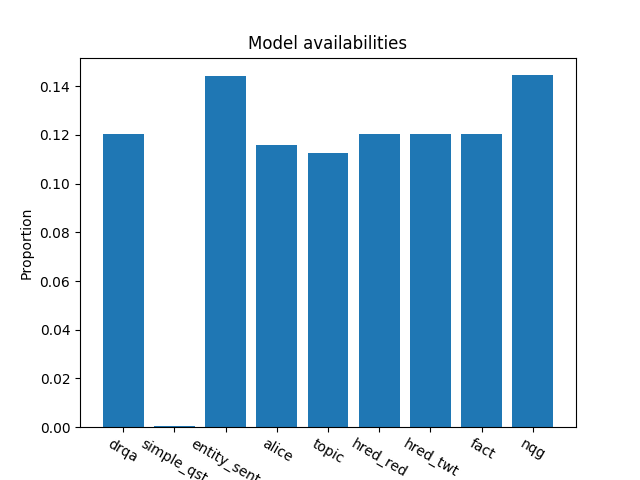
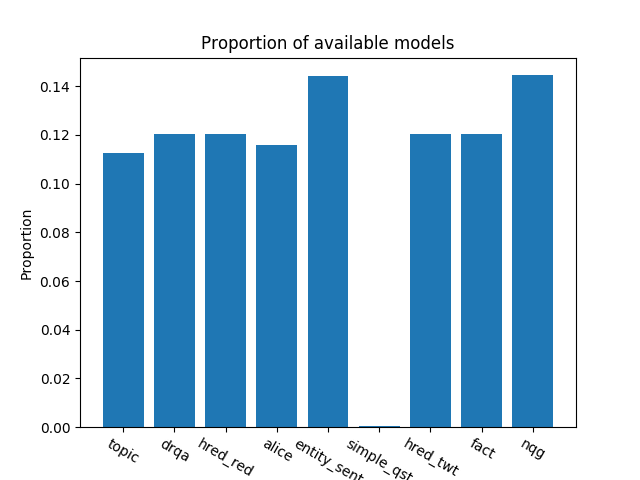
updated amt_data_stats script to capture context length, number of candidates, missing candidates at various times

diff --git a/ranker/data/amt_data_stats.py b/ranker/data/amt_data_stats.py
@@ -26,7 +26,21 @@ def get_model_usage(convos):
     :param convos: list of accepted conversation
     :return: the mapping
     """
-    data = {}  # map from model_name to number of time available & number of time used
+
+    # map from model_name to number of time available & number of time used & number of time not available
+    data = {
+        'hred_twt': {'unavailable': 0., 'available': 0., 'used': 0.},
+        'hred_red': {'unavailable': 0., 'available': 0., 'used': 0.},
+        'nqg': {'unavailable': 0., 'available': 0., 'used': 0.},
+
+        'drqa': {'unavailable': 0., 'available': 0., 'used': 0.},
+        'topic': {'unavailable': 0., 'available': 0., 'used': 0.},
+        'fact': {'unavailable': 0., 'available': 0., 'used': 0.},
+
+        'entity_sent': {'unavailable': 0., 'available': 0., 'used': 0.},
+        'simple_qst': {'unavailable': 0., 'available': 0., 'used': 0.},
+        'alice': {'unavailable': 0., 'available': 0., 'used': 0.}
+    }
     n_ex = 0
 
     for conv_idx, conv in enumerate(convos):
@@ -42,13 +56,28 @@ def get_model_usage(convos):
             if choice_idx == '/end':
                 break
 
+            # check if each model was a candidate response
+            all_models = {'hred_twt': False, 'hred_red': False, 'nqg': False,
+                          'drqa': False, 'topic': False, 'fact': False,
+                          'entity_sent': False, 'simple_qst': False, 'alice': False}
+
             # loop through each candidate option
             for option_idx, option in turn['options'].items():
+                '''
+                "text" : <str>,
+                "chat_unique_id" : <str>,
+                "vote" : <str of either 1 or 0>,
+                "score" : <str of float between 1 and 5>,
+                "model_name" : <str>,
+                "context": <list of strings>,
+                "chat_id" : <str>,
+				"conf" : <str of float between 0 and 1>
+                '''
                 # don't consider the /end option
                 if option_idx == '/end':
                     continue
 
-                # reset some model names
+                # reset some model names (all except drqa & nqg)
                 model_name = option['model_name']
                 if model_name == "candidate_question":
                     model_name = "entity_sent"
@@ -65,15 +94,11 @@ def get_model_usage(convos):
                 elif model_name == "alicebot":
                     model_name = "alice"
 
-                # store model name
-                if model_name not in data:
-                    data[model_name] = {
-                        'available': 0.,
-                        'used': 0.
-                    }
-
                 # always add one when available
                 data[model_name]['available'] += 1
+
+                # flag as available
+                all_models[model_name] = True
 
                 # if chosen, add one to 'used' count
                 if choice_idx == option_idx:
@@ -83,9 +108,143 @@ def get_model_usage(convos):
                 n_ex += 1
 
             # end of options
+
+            # count models that are not available
+            for model_name in all_models:
+                if not all_models[model_name]:
+                    data[model_name]['unavailable'] += 1
+
+
         # end of conversation
     # end of accepted HITs
     return data, n_ex
+
+
+def get_proportions(convos):
+    candidate_counts = [0.0, 0.0, 0.0, 0.0, 0.0, 0.0, 0.0, 0.0, 0.0]
+    total_counts = 0.0
+
+    context_lengths = [0.0, 0.0, 0.0, 0.0, 0.0,
+                       0.0, 0.0, 0.0, 0.0, 0.0,
+                       0.0, 0.0, 0.0, 0.0, 0.0,
+                       0.0, 0.0, 0.0, 0.0, 0.0]
+    total_lengths = 0.0
+    long_contexts = 0.0
+
+    total = 0.0
+
+    missing_at_7 = {  # ignoring 'dumb_qa'
+        'hred-twitter': 0., 'hred-reddit': 0., 'nqg': 0.,
+        'drqa': 0., 'topic_model': 0., 'fact_gen': 0.,
+        'candidate_question': 0., 'alicebot': 0.,
+    }
+
+    for conv_idx, conv in enumerate(convos):
+        # loop through each turn for this conversation
+        for turn in conv['chat_state']['turns']:
+            '''
+            "choice" : <str idx of chosen candidate>,
+			"options" : { <str idx> : <option>, ... }
+            '''
+
+            choice_idx = turn['choice']  # choice index
+            # skip turn if invalid choice
+            if choice_idx == '-1' or choice_idx == -1:
+                continue
+
+            # if chose to finish, this is the last turn so we can break
+            #if choice_idx == '/end':
+            #    break
+
+            c_len = 0  # current guess of the context length
+            got_end_option = False  # to know when to ignore a candidate when measuring length
+
+            # loop through each candidate option
+            for option_idx, option in turn['options'].items():
+                '''
+                "text" : <str>,
+                "chat_unique_id" : <str>,
+                "vote" : <str of either 1 or 0>,
+                "score" : <str of float between 1 and 5>,
+                "model_name" : <str>,
+                "context": <list of strings>,
+                "chat_id" : <str>,
+                "conf" : <str of float between 0 and 1>
+                '''
+                # don't consider the /end option
+                if option_idx == '/end':
+                    got_end_option = True
+                    continue
+
+                # update the context length
+                if c_len == 0:
+                    if len(turn['options']) > 2:
+                        model_name = option['model_name']
+                        c_len = len(option['context'])
+
+                        if model_name == "hred-reddit":
+                            c_len -= 1  # remove 1 to context length since the context also considers the candidate we return
+                        elif model_name == "hred-twitter":
+                            c_len -= 1  # remove 1 to context length since the context also considers the candidate we return
+                        elif model_name == "nqg":
+                            c_len = len(option['context'])
+
+                        elif model_name == "drqa":
+                            c_len -= 1  # remove 1 to context length since the context also considers the candidate we return
+                        elif model_name == "topic_model":
+                            c_len -= 1  # remove 1 to context length since the context also considers the candidate we return
+                        elif model_name == "fact_gen":
+                            c_len -= 1  # remove 1 to context length since the context also considers the candidate we return
+
+                        elif model_name == "candidate_question":
+                            c_len -= 1  # remove 1 to context length since the context also considers the candidate we return
+                        elif model_name == "alicebot":
+                            c_len -= 1  # remove 1 to context length since the context also considers the candidate we return
+                    else:
+                        c_len = 1
+
+            if got_end_option:
+                # -1 number of candidates because we don't consider the 'end' option
+                candidate_counts[len(turn['options']) - 2] += 1
+                total_counts += (len(turn['options']) - 1)
+            else:
+                candidate_counts[len(turn['options']) - 1] += 1
+                total_counts += len(turn['options'])
+
+                # DEBUG
+                # print model names that are missing (except 'dumb_qa') when only 7 candidate responses are available
+                if len(turn['options']) == 7:
+                #if len(turn['options']) == 6:
+                #if len(turn['options']) == 5:
+                    all_names = set([
+                        'hred-twitter', 'hred-reddit', 'nqg',
+                        'drqa', 'topic_model', 'fact_gen',
+                        'candidate_question', 'alicebot'])
+                    names = set([op['model_name'] for op in turn['options'].values()])
+                    missing = list(all_names - names)
+                    assert len(missing) == 1
+                    #if missing[0] == 'alicebot':
+                    #    print "alice is missing... context below:"
+                    #    print turn['options']['1']['context'][-3]
+                    #    print turn['options']['1']['context'][-2]
+                    #    print turn['options']['1']['context'][-1]
+                    #    print ""
+                    #elif missing[0] == 'topic_model':
+                    #    print turn['options']['1']['context']
+                    missing_at_7[missing[0]] += 1
+                    #missing_at_7[missing[1]] += 1
+                    #missing_at_7[missing[2]] += 1
+
+            try:
+                context_lengths[c_len-1] += 1
+            except IndexError:
+                long_contexts += 1
+            total_lengths += c_len
+
+            total += 1
+
+    return (candidate_counts, total_counts), (context_lengths, long_contexts, total_lengths), total, missing_at_7
+
 
 
 def main():
@@ -98,7 +257,9 @@ def main():
     results = list(db.dialogs.find({'review': 'accepted'}))
     print "got %d conversations." % len(results)
 
+    ###
     # get quality of all conversations
+    ###
     qualities = get_convo_qualities(results)
     n_conv = np.sum(qualities)
     assert n_conv == len(results)
@@ -119,10 +280,12 @@ def main():
     plt.savefig("amt_data_qualities.png")
     plt.close()
 
+    ###
     # get model availabilities
+    ###
     model_usage, n_ex = get_model_usage(results)
     for model_name, usage in model_usage.items():
-        print " - %s\tavailability: %d / %d = %f" % (model_name[:], usage['available'], n_ex, usage['available'] / n_ex)
+        print " - %s\tavailability: %d / %d = %f" % (model_name, usage['available'], n_ex, usage['available'] / n_ex)
     print ""
 
     # plot availabilities
@@ -130,10 +293,21 @@ def main():
     availabilities = [usage['available'] / n_ex for usage in model_usage.values()]
     plt.bar(range(len(availabilities)), availabilities, tick_label=model_names)
     plt.xticks(fontsize=10, rotation=-30)
-    plt.title("Model availabilities")
+    plt.title("Proportion of available models")
     plt.xlabel("Model")
     plt.ylabel("Proportion")
     plt.savefig("amt_data_availabilities.png")
+    plt.close()
+
+    # plot UNavailabilities
+    model_names = model_usage.keys()
+    unavailabilities = [usage['unavailable'] / n_ex for usage in model_usage.values()]
+    plt.bar(range(len(unavailabilities)), unavailabilities, tick_label=model_names)
+    plt.xticks(fontsize=10, rotation=-30)
+    plt.title("Proportion of unavailable models")
+    plt.xlabel("Model")
+    plt.ylabel("Proportion")
+    plt.savefig("amt_data_unavailabilities.png")
     plt.close()
 
     # get model usage
@@ -147,11 +321,77 @@ def main():
     utilities = [usage['used'] / usage['available'] for usage in model_usage.values()]
     plt.bar(range(len(utilities)), utilities, tick_label=model_names)
     plt.xticks(fontsize=10, rotation=-30)
-    plt.title("Model utilities")
+    plt.title("Proportion of selected models when available")
     plt.xlabel("Model")
     plt.ylabel("Proportion")
     plt.savefig("amt_data_utilities.png")
     plt.close()
+
+    ###
+    # Get stats: number of candidates, context lengths, etc...
+    # Do it ONCE for all model: these are stats of the test set itself
+    ###
+    print "\nCounting number of candidate responses & context lengths..."
+
+    (candidate_counts, total_counts), (context_lengths, long_contexts, total_lengths), total, missing_at_7 = get_proportions(results)
+    print "missing models when only 7 candidates are available:"
+    total_miss = np.sum(missing_at_7.values())
+    for model_name, miss in missing_at_7.items():
+        print " - %s\tmiss: %d / %d = %f" % (model_name, miss, total_miss, miss / total_miss)
+    print ""
+    # plot missing models
+    model_names = missing_at_7.keys()
+    misses = np.array(missing_at_7.values()) / total_miss
+    plt.bar(range(len(misses)), misses, tick_label=model_names)
+    plt.xticks(fontsize=10, rotation=-30)
+    plt.title("Proportion of models not available when we only have 7 candidates")
+    plt.xlabel("Model")
+    plt.ylabel("Proportion")
+    plt.savefig("amt_data_miss@7.png")
+    plt.close()
+
+
+    print "Number of candidate responses:"
+    for length, count in enumerate(candidate_counts):
+        print "- #of turns with %d candidates available: %d / %d = %g" % (
+            length + 1, count, total, count / total
+        )
+    # - measure #of_candidate avg
+    print "Average number of candidates: %g" % (total_counts / total)
+    # - plot proportion of #of possible candidate: #of2, #of3, ..., #of9
+    candidate_counts = np.array(candidate_counts) / total
+    plt.bar(range(len(candidate_counts)), candidate_counts, tick_label=range(1, len(candidate_counts)+1))
+    plt.title("Number of candidate responses available")
+    plt.xlabel("#of candidates")
+    plt.ylabel("Proportion")
+    plt.savefig("./amt_data_candidates.png")
+    plt.close()
+
+    print "\nLength of context:"
+    for length, count in enumerate(context_lengths):
+        print "- #of examples with %d messages in context: %d / %d = %g" % (
+            length + 1, count, total, count / total
+        )
+    print "- #of examples with more messages in context: %d / %d = %g" % (
+        long_contexts, total, long_contexts / total
+    )
+    # - measure context length avg
+    print "Average context size: %g" % (total_lengths / total)
+    # - plot proportion of context length: #of2, #of3, ..., #of10
+    context_lengths.append(long_contexts)
+    context_lengths = np.array(context_lengths) / total
+    plt.bar(
+        range(len(context_lengths)),
+        context_lengths,
+        tick_label=range(1, len(context_lengths))+['>']
+    )
+    plt.title("Context lengths")
+    plt.xlabel("#of messages")
+    plt.ylabel("Proportion")
+    plt.savefig("./amt_data_contextlength.png")
+    plt.close()
+
+    print "done."
 
 
 
